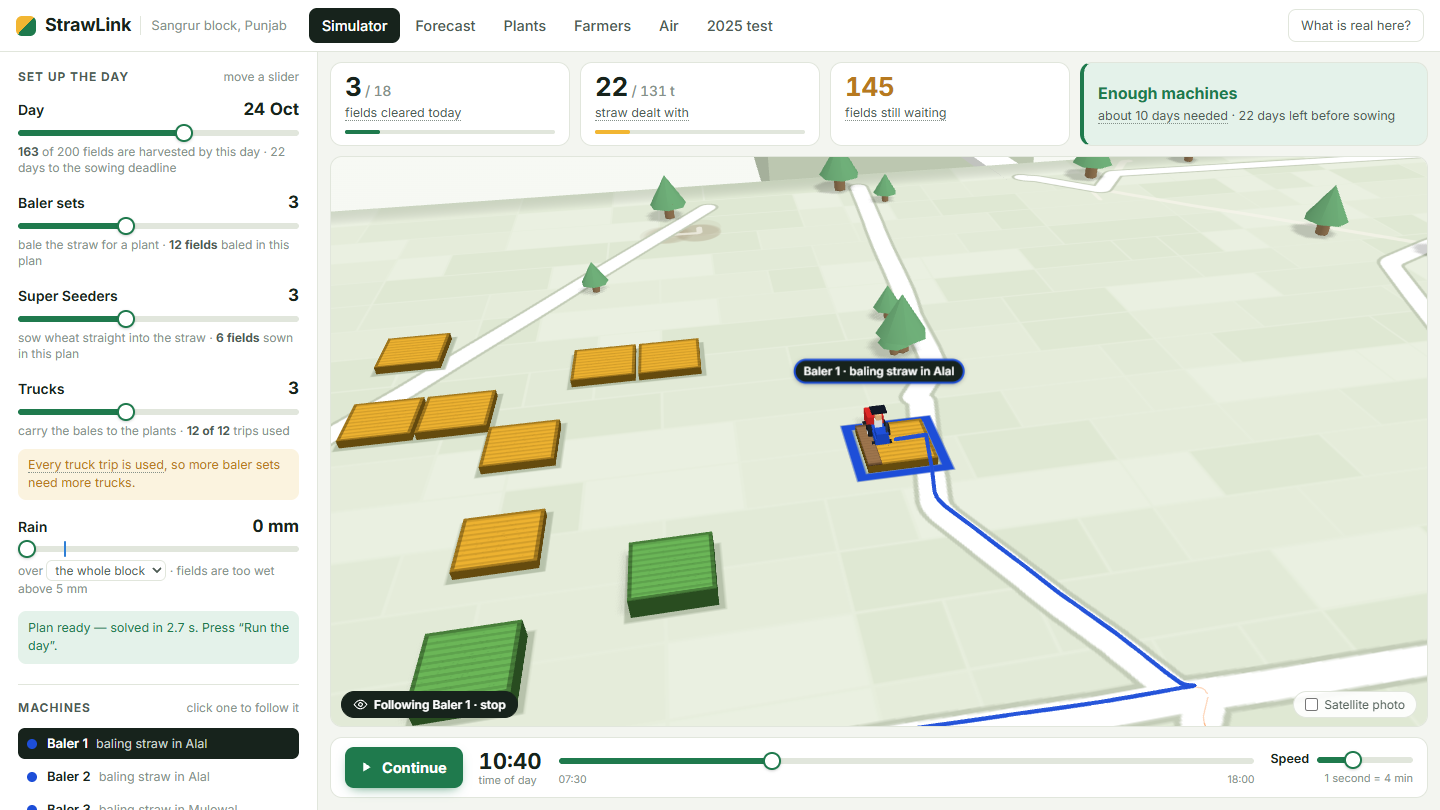
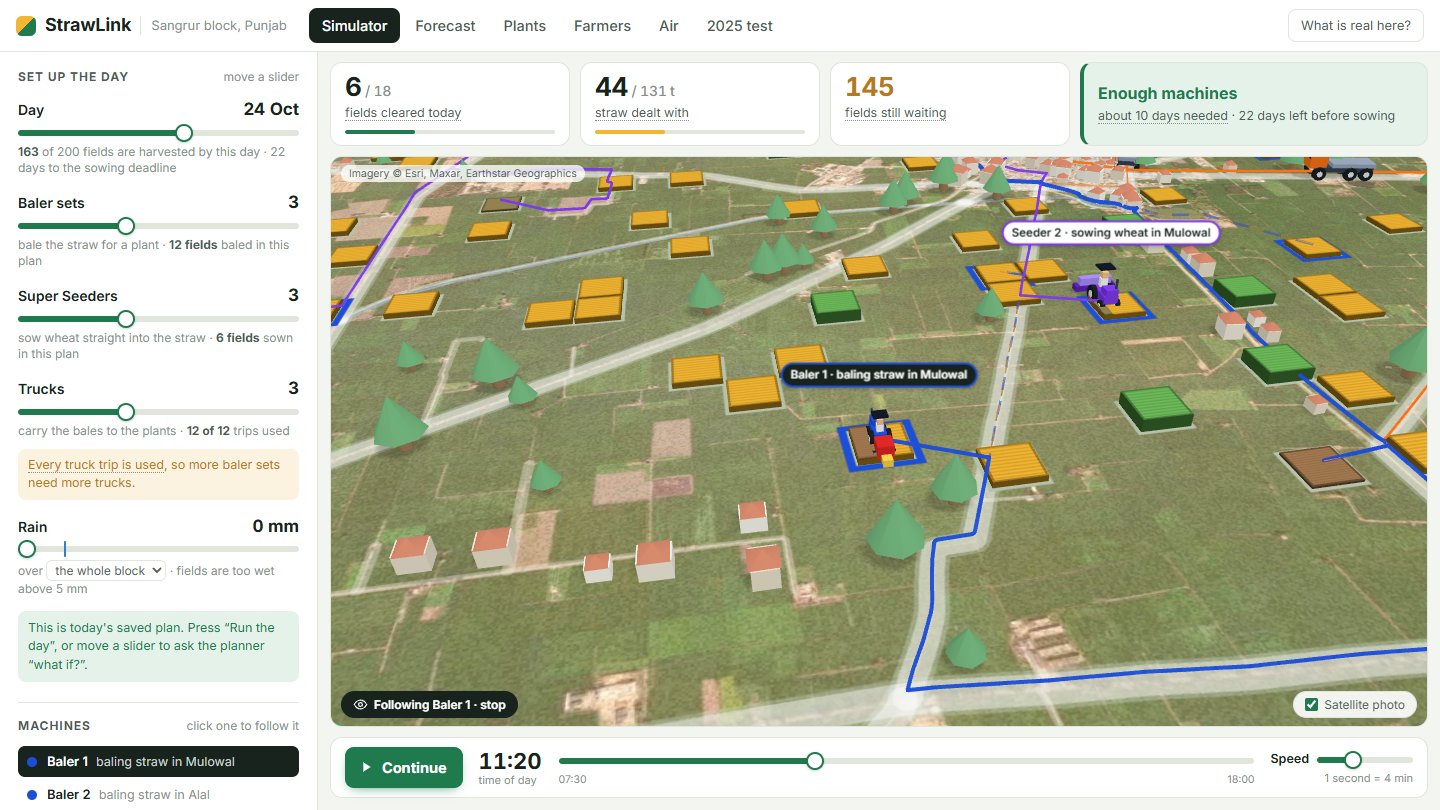
The map fills the whole view: real land to the horizon
- A wide satellite mosaic lies under and around the block, fading into haze, so there is no
  board edge and no page background behind the map. The block keeps its detailed layer, whose
  rim melts into the land around it.
- Plants stand on the land in a flat yard with an approach road, instead of on islands.
- README pictures retaken from the live site.

diff --git a/app/web/src/scene/Scenery.tsx b/app/web/src/scene/Scenery.tsx
@@ -10,10 +10,46 @@ import { usePrefs } from "../ui/prefs";
 import { paintGround } from "./ground";
 import { useSatellite } from "./satellite";
 
-const SLAB = 3.2; // thickness of the board
-const SIDE = "#cdbb9f";
+/** The colour distant land fades into, and the sky behind it. */
+export const HAZE = "#dfe8e4";
+const LAND = "#e7eedd", LAND_PHOTO = "#8fa06f";
 
-/** The board: the block's land painted on top of a thick earth slab. */
+/** The land all around the block, out to the haze, so the map fills the view and has no edge. */
+function Surround() {
+  const { geo, select } = useWorld();
+  const prefs = usePrefs();
+  const wide = useMemo(() => {
+    if (!geo) return null;
+    const [w, s, e, n] = geo.bbox, dx = (e - w) * 1.7, dy = (n - s) * 1.7;
+    return [w - dx, s - dy, e + dx, n + dy] as [number, number, number, number];
+  }, [geo]);
+  const photo = useSatellite(prefs.satellite && geo ? geo.project : null, prefs.satellite ? wide : null, { maxTiles: 200, fade: true });
+  const tex = useMemo(() => {
+    if (!photo) return null;
+    const t = new THREE.CanvasTexture(photo.canvas);
+    t.colorSpace = THREE.SRGBColorSpace;
+    t.anisotropy = 8;
+    return t;
+    // eslint-disable-next-line react-hooks/exhaustive-deps
+  }, [photo?.canvas]);
+  useEffect(() => { if (tex) tex.needsUpdate = true; }, [tex, photo?.version]);
+  if (!geo) return null;
+  const far = geo.span * 16;
+  return (
+    <group onClick={() => select(null)}>
+      <mesh rotation={[-Math.PI / 2, 0, 0]} position={[0, -0.08, 0]}>
+        <planeGeometry args={[far, far]} /><meshBasicMaterial color={prefs.satellite ? LAND_PHOTO : LAND} toneMapped={false} />
+      </mesh>
+      {prefs.satellite && photo && tex && (
+        <mesh rotation={[-Math.PI / 2, 0, 0]} position={[photo.x, -0.04, photo.z]}>
+          <planeGeometry args={[photo.w, photo.d]} /><meshBasicMaterial map={tex} transparent toneMapped={false} />
+        </mesh>
+      )}
+    </group>
+  );
+}
+
+/** The block itself: its land in full detail, with the real roads, waterways and a bed under every field. */
 export function Ground() {
   const { geo, cells, roads, water, select } = useWorld();
   const prefs = usePrefs();
@@ -36,19 +72,16 @@ export function Ground() {
     // eslint-disable-next-line react-hooks/exhaustive-deps
   }, [geo, cells.length, roads, water, prefs.satellite, photo?.version]);
 
-  const mats = useMemo(() => {
-    const top = new THREE.MeshBasicMaterial({ map, toneMapped: false });
-    const side = new THREE.MeshLambertMaterial({ color: SIDE });
-    return [side, side, top, side, side, side];
-  }, [map]);
+  const mat = useMemo(() => new THREE.MeshBasicMaterial({ map, toneMapped: false, transparent: true }), [map]);
 
   if (!geo) return null;
   const { box } = geo;
   const W = box.x1 - box.x0, D = box.z1 - box.z0, cx = (box.x0 + box.x1) / 2, cz = (box.z0 + box.z1) / 2;
   return (
     <group>
-      <mesh position={[cx, -SLAB / 2, cz]} material={mats} onClick={() => select(null)}>
-        <boxGeometry args={[W, SLAB, D]} />
+      <Surround />
+      <mesh rotation={[-Math.PI / 2, 0, 0]} position={[cx, 0, cz]} material={mat} onClick={() => select(null)}>
+        <planeGeometry args={[W, D]} />
       </mesh>
       <mesh rotation={[-Math.PI / 2, 0, 0]} position={[cx, 0.012, cz]} receiveShadow renderOrder={1}>
         <planeGeometry args={[W, D]} /><shadowMaterial transparent opacity={0.18} depthWrite={false} />
@@ -150,7 +183,7 @@ function Block({ p, s, c }: { p: [number, number, number]; s: [number, number, n
   return <mesh position={p} castShadow><boxGeometry args={s} /><meshLambertMaterial color={c} /></mesh>;
 }
 
-/** A plant on its own little island beyond the board's edge, joined to the road network by a causeway. */
+/** A plant in its yard beyond the block (drawn closer than it is), joined to the road network by an approach road. */
 function Plant({ plant }: { plant: PlantView }) {
   const { day, clock } = useWorld();
   const pile = useRef<THREE.Mesh>(null!);
@@ -180,11 +213,11 @@ function Plant({ plant }: { plant: PlantView }) {
   return (
     <group>
       {/* causeway from the road network to the plant */}
-      <mesh position={[(ex + px) / 2, -0.12, (ez + pz) / 2]} rotation={[0, yaw, 0]} receiveShadow>
-        <boxGeometry args={[0.9, 0.24, len]} /><meshLambertMaterial color="#ffffff" />
+      <mesh position={[(ex + px) / 2, 0.02, (ez + pz) / 2]} rotation={[0, yaw, 0]} receiveShadow>
+        <boxGeometry args={[0.8, 0.05, len]} /><meshLambertMaterial color="#f1eee4" />
       </mesh>
       <group position={[px, 0, pz]}>
-        <mesh position={[0, -SLAB / 2, 0]} receiveShadow><boxGeometry args={[9, SLAB, 7]} /><meshLambertMaterial color="#dbe6cf" /></mesh>
+        <mesh position={[0, 0.04, 0]} receiveShadow><boxGeometry args={[9, 0.08, 7]} /><meshLambertMaterial color="#d8d4c6" /></mesh>
         <group scale={1.15} position={[-0.8, 0, 0]}>
           <Block p={[0, 1.1, 0]} s={[3.2, 2.2, 2.4]} c="#e7ecf0" />
           <Block p={[0, 2.3, 0]} s={[3.4, 0.2, 2.6]} c="#5b6b7a" />

diff --git a/app/web/src/scene/satellite.ts b/app/web/src/scene/satellite.ts
@@ -17,26 +17,35 @@ const lat2y = (lat: number, z: number) => {
 const x2lon = (x: number, z: number) => (x / 2 ** z) * 360 - 180;
 const y2lat = (y: number, z: number) => (Math.atan(Math.sinh(Math.PI * (1 - (2 * y) / 2 ** z))) * 180) / Math.PI;
 
-export function useSatellite(project: Projector | null, bbox: [number, number, number, number] | null): Ground | null {
+/** A little brighter and greener than the raw imagery, so fields and machines stand out on it. */
+const TREAT = "brightness(1.16) saturate(1.22) contrast(1.04)";
+
+/**
+ * @param maxTiles how many tiles the mosaic may use; the sharpest zoom that fits is chosen
+ * @param fade     fade the mosaic's edges to transparent (for a photo that ends in open ground)
+ */
+export function useSatellite(project: Projector | null, bbox: [number, number, number, number] | null,
+                             { maxTiles = MAX_TILES, fade = false }: { maxTiles?: number; fade?: boolean } = {}): Ground | null {
   const [ground, setGround] = useState<Ground | null>(null);
-  const key = bbox?.map((v) => v.toFixed(4)).join(",");
+  const key = bbox ? `${bbox.map((v) => v.toFixed(4)).join(",")}|${maxTiles}|${fade}` : undefined;
 
   useEffect(() => {
     if (!project || !bbox) return;
     const [w, s, e, n] = bbox;
     // sharpest zoom that keeps the mosaic to a sensible number of tiles
     let z = 16, x0 = 0, x1 = 0, y0 = 0, y1 = 0;
-    for (; z > 10; z--) {
+    for (; z > 8; z--) {
       x0 = Math.floor(lon2x(w, z)) - 1; x1 = Math.floor(lon2x(e, z)) + 1;
       y0 = Math.floor(lat2y(n, z)) - 1; y1 = Math.floor(lat2y(s, z)) + 1;
-      if ((x1 - x0 + 1) * (y1 - y0 + 1) <= MAX_TILES) break;
+      if ((x1 - x0 + 1) * (y1 - y0 + 1) <= maxTiles) break;
     }
     const nx = x1 - x0 + 1, ny = y1 - y0 + 1;
     const canvas = document.createElement("canvas");
     canvas.width = nx * TILE; canvas.height = ny * TILE;
     const g = canvas.getContext("2d")!;
-    g.fillStyle = "#e9ece7";
+    g.fillStyle = "#93a476"; // farmland green until a tile arrives
     g.fillRect(0, 0, canvas.width, canvas.height);
+    g.filter = TREAT;
 
     // the scene's projection is linear in lon/lat; over ~12 km the Mercator difference is under a metre
     const [ax, az] = project([x2lon(x0, z), y2lat(y0, z)]);
@@ -46,8 +55,9 @@ export function useSatellite(project: Projector | null, bbox: [number, number, n
     let live = true, done = 0, version = 0;
     const publish = () => live && setGround({ canvas, ...place, version: ++version });
     const finish = () => {
-      // fade the photo's edges into the white page
-      const m = Math.min(canvas.width, canvas.height) * 0.07;
+      if (!fade) return publish();
+      g.filter = "none";
+      const m = Math.min(canvas.width, canvas.height) * 0.12;
       g.globalCompositeOperation = "destination-out";
       for (const [x, y, gw, gh, x1g, y1g, x2g, y2g] of [
         [0, 0, canvas.width, m, 0, 0, 0, m], [0, canvas.height - m, canvas.width, m, 0, canvas.height, 0, canvas.height - m],

diff --git a/app/web/src/scene/ground.ts b/app/web/src/scene/ground.ts
@@ -4,7 +4,7 @@ import type { RoadLine } from "../sim/roads";
 const P = {
   land: "#e7eedd", patches: ["#e2ead7", "#eaf0e1", "#dfe8d3", "#e5ecda"], bed: "#b7c2ab",
   casing: "#c3ccb7", road: "#ffffff", lane: "#f6f4ea", water: "#9fd0ee", built: "rgba(160,140,110,0.09)",
-  rim: "rgba(110,130,100,0.22)", photoTint: "rgba(255,255,255,0.05)",
+  photoTint: "rgba(255,255,255,0.05)",
 };
 
 /** Fine light-and-dark speckle, tiled over the photo: detail the imagery itself runs out of up close. */
@@ -58,9 +58,7 @@ export function paintGround(canvas: HTMLCanvasElement, input: GroundInput, maxPx
   g.fillStyle = P.land;
   g.fillRect(0, 0, canvas.width, canvas.height);
   if (photo) {
-    g.filter = "brightness(1.16) saturate(1.22) contrast(1.04)";
     g.drawImage(photo.canvas, X(photo.x - photo.w / 2), Z(photo.z - photo.d / 2), photo.w * k, photo.d * k);
-    g.filter = "none";
     g.fillStyle = P.photoTint;
     g.fillRect(0, 0, canvas.width, canvas.height);
     g.fillStyle = g.createPattern(grain(), "repeat")!;
@@ -118,16 +116,18 @@ export function paintGround(canvas: HTMLCanvasElement, input: GroundInput, maxPx
   g.fillStyle = P.bed;
   for (const c of cells) g.fillRect(X(c.x - c.w / 2) - 2, Z(c.z - c.d / 2) - 2, c.w * k + 4, c.d * k + 4);
 
-  // soften the map's rim
-  const rim = 1.0 * k;
+  // the block has no edge: its rim fades out, and the land around it shows through
+  const rim = 1.6 * k;
+  g.globalCompositeOperation = "destination-out";
   for (const [x, y, w, h, x1, y1, x2, y2] of [
     [0, 0, canvas.width, rim, 0, 0, 0, rim], [0, canvas.height - rim, canvas.width, rim, 0, canvas.height, 0, canvas.height - rim],
     [0, 0, rim, canvas.height, 0, 0, rim, 0], [canvas.width - rim, 0, rim, canvas.height, canvas.width, 0, canvas.width - rim, 0],
   ]) {
     const grad = g.createLinearGradient(x1, y1, x2, y2);
-    grad.addColorStop(0, P.rim);
+    grad.addColorStop(0, "rgba(0,0,0,1)");
     grad.addColorStop(1, "rgba(0,0,0,0)");
     g.fillStyle = grad;
     g.fillRect(x, y, w, h);
   }
+  g.globalCompositeOperation = "source-over";
 }

diff --git a/app/web/src/scene/Stage3D.tsx b/app/web/src/scene/Stage3D.tsx
@@ -6,7 +6,7 @@ import { useStage, type CameraSpec } from "../sim/stage";
 import { useWorld } from "../sim/world";
 import { Effects } from "./Effects";
 import { Fields } from "./Fields";
-import { Ground, Pin, Plants, Settlements, VillageLabels } from "./Scenery";
+import { Ground, HAZE, Pin, Plants, Settlements, VillageLabels } from "./Scenery";
 import { Vehicles } from "./Vehicles";
 
 const clamp01 = (u: number) => Math.min(1, Math.max(0, u));
@@ -45,7 +45,7 @@ function Rig({ reduced }: { reduced: boolean }) {
   const { geo, plants, follow, vehiclePos, selected, cellById } = useWorld();
   const spec = useStage().camera;
   const controls = useRef<{ target: THREE.Vector3; update: () => void } | null>(null);
-  const { camera } = useThree();
+  const { camera, scene } = useThree();
   const aspect = useThree((s) => s.size.width / Math.max(1, s.size.height));
   const span = geo?.span ?? 100;
   const want = useRef({ target: new THREE.Vector3(), r: span * 1.2, polar: 0.8, azim: -0.18, on: false });
@@ -103,6 +103,12 @@ function Rig({ reduced }: { reduced: boolean }) {
     if (!c) return;
     const k = reduced ? 1 : 1 - Math.exp(-Math.min(dt, 0.1) * 2.4);
     const w = want.current;
+    // haze begins a little beyond whatever the camera is looking at, so the map never shows an edge
+    if (scene.fog instanceof THREE.Fog) {
+      const d = camera.position.distanceTo(c.target);
+      scene.fog.near = d * 1.1 + span * 0.45;
+      scene.fog.far = d * 1.1 + span * 3.6;
+    }
     if (follow) {
       const p = vehiclePos.current.get(follow);
       if (p) {
@@ -162,6 +168,8 @@ function World({ reduced }: { reduced: boolean }) {
   const pinned = cellById.get(mode.pin ?? selected ?? "");
   return (
     <>
+      <color attach="background" args={[HAZE]} />
+      <fog attach="fog" args={[HAZE, 200, 600]} />
       <Sun />
       <Rig reduced={reduced} />
       <Ground />
